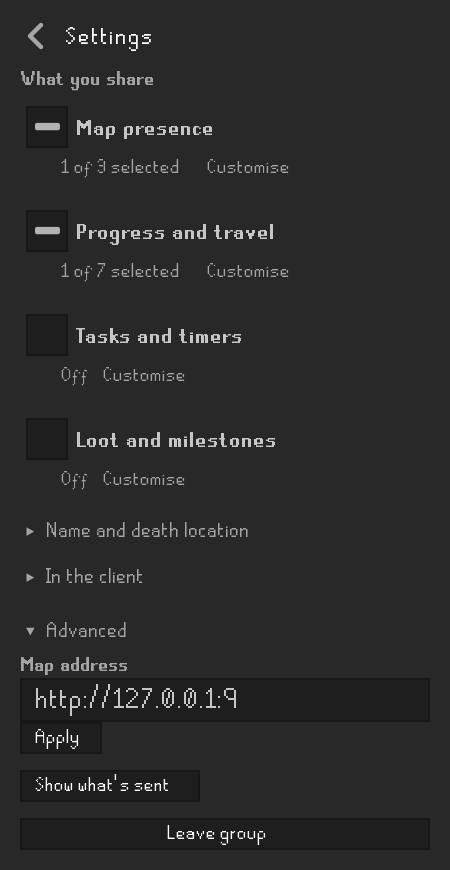
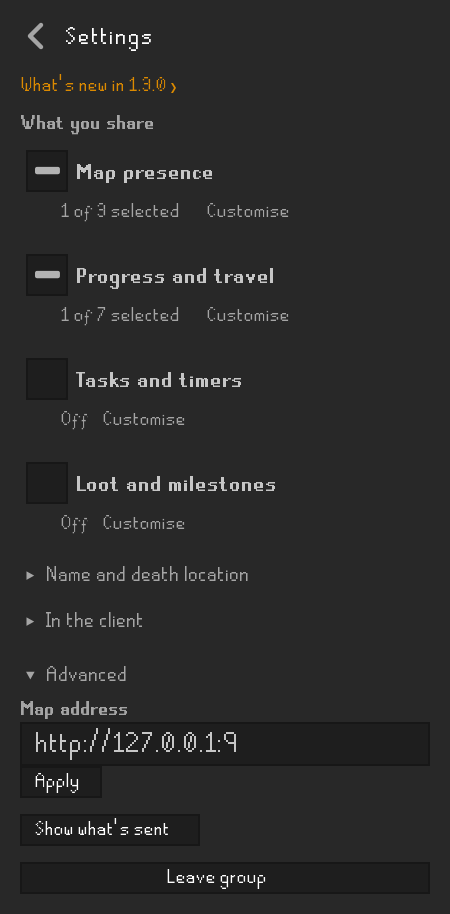
Link the sidebar's Settings to the map's What's new page
A player who wants to know what an update changed had nowhere in the sidebar to look: RuneLite
shows no changelog, and the chat line says it once. Settings now opens with a small link, What's
new in 1.3.0, to osrs-map.com/whats-new, where every update is written down. It sits behind the
gear rather than on Home, because nobody needs it daily.

The README's Settings and Stars pictures are redrawn from the renderer to match.

diff --git a/src/main/java/com/pbolduc/mapcompanion/MapCompanionPanel.java b/src/main/java/com/pbolduc/mapcompanion/MapCompanionPanel.java
@@ -523,6 +523,17 @@ public class MapCompanionPanel extends PluginPanel
 		body.add(views);
 
 		JPanel settings = column(ColorScheme.DARK_GRAY_COLOR);
+		/*
+		 * Where an update's changes are written down, the same page the once-per-version chat line
+		 * names: RuneLite shows no changelog, and the README carries only the latest few lines.
+		 */
+		JButton whatsNew = linkButton("What's new in " + CompanionVersion.VERSION + " ›");
+		whatsNew.setName("settings.whatsNew");
+		whatsNew.setForeground(ColorScheme.BRAND_ORANGE);
+		whatsNew.setToolTipText("Open the map's What's new page, where every update is written down");
+		whatsNew.addActionListener(e -> LinkBrowser.browse(mapUrl() + "/whats-new"));
+		settings.add(left(whatsNew));
+		settings.add(gap(4, ColorScheme.DARK_GRAY_COLOR));
 		settings.add(sectionHead("What you share"));
 		settings.add(sharingControls);
 		settings.add(gap(4, ColorScheme.DARK_GRAY_COLOR));
